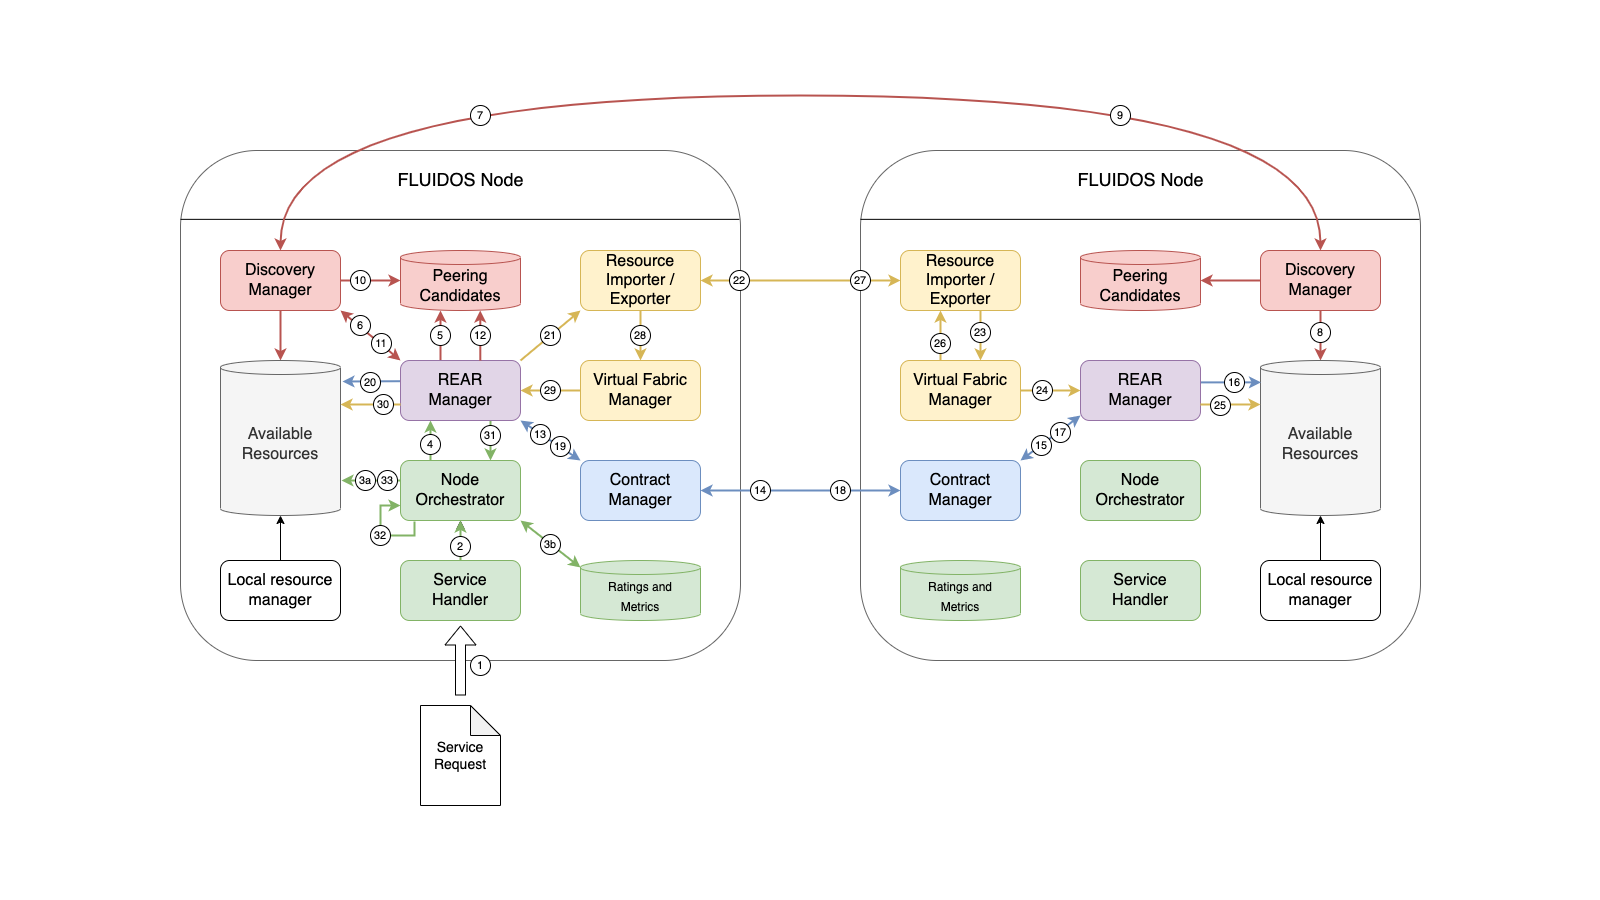
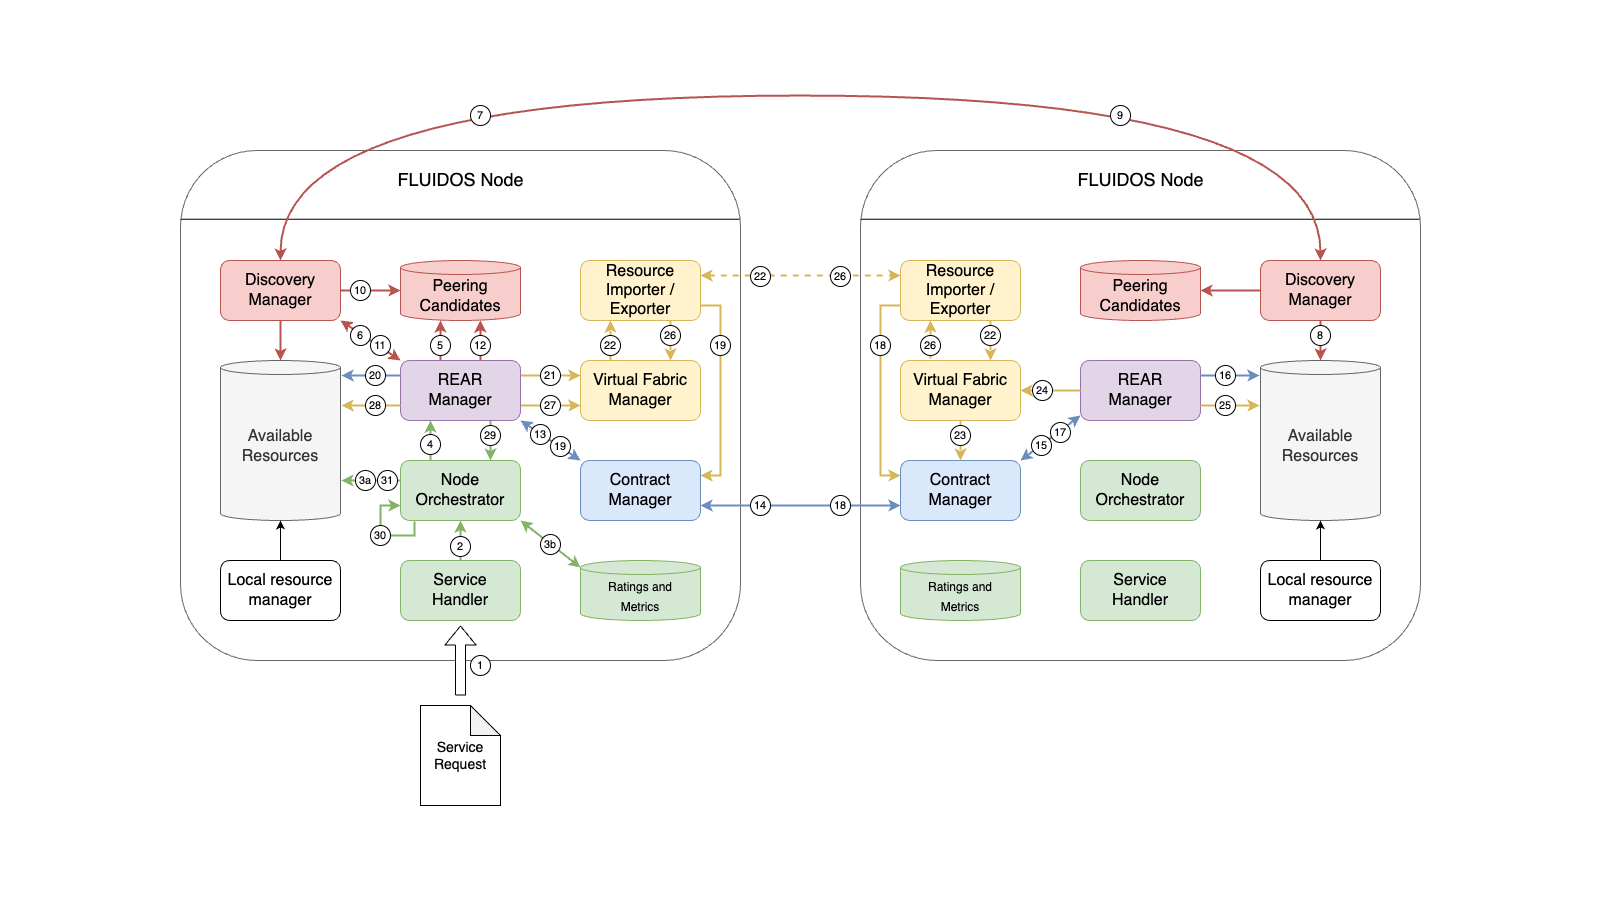
Updated flows

diff --git a/Workflows/README.md b/Workflows/README.md
@@ -18,28 +18,29 @@
 12. See <u>step #5</u>.
 13. Now that a suitable peering candidate is found, the **REAR Manager** asks the **[Contract Manager](../Work%20Packages/WP3/Contract-manager.md)** to start-up the Reservation phase poiting to the Provider Node.
 14. The **Contract Manager** of the Consumer Node sends a _RESERVE_FLAVOUR_ message to the **Contract Manager** of the Provider Node.
-15. The **Contract Manager** of the Provider Node asks its **REAR Manager** to reserve resources for the incoming request.
+15. The **Contract Manager** of the Provider Node creates a new _contract_ and asks its **REAR Manager** to reserve resources for the incoming request.
 16. The **REAR Manager** updates the **Available Resources** table by deleting the old advertised _flavour_ and creating a new reduced _flavour_ (suitable for other future requests) and by creating a new _allocation_ of type "Node" in "inactive" status.
 17. The **REAR Manager** informs the **Contract Manager** that the resources have been reserved.
-18. The **Contract Manager** of the Provider Node creates a new _contract_ and answers back to the **Contract Manager** of the Consumer Node with an _OK_ message.
+18. The **Contract Manager** of the Provider Node answers back to the **Contract Manager** of the Consumer Node with an _OK_ message. At the same time an informer makes the **[Network Manager](../Work%20Packages/WP3/Network-manager.md)** aware, so that it can deploy a virtual router to enable peering reachability.
 
 Following the steps defined into the REAR Protocol, the two **Contract Managers** may exchange a couple of other messages to confirm the reservation on both sides, but may also directly agree following the procedure described from <u>step #14</u> to <u>step #18</u>.
 
-19. The **Contract Manager** of the Consumer Node creates a new _contract_ and informs its REAR Manager that the resources have been reserved.
+19. The **Contract Manager** of the Consumer Node creates a new _contract_ and informs its REAR Manager that the resources have been reserved. At the same time an informer makes the **Network Manager** aware, so that it can deploy a virtual router to enable peering reachability.
 20. The **REAR Manager** updates the **Available Resources** table by creating a new _allocation_ of type "VirtualNode" in "inactive" status.
-21. The **REAR Manager** asks the **[Resource Importer](../Work%20Packages/WP3/Resource-importer.md)** to start-up the Peering phase.
-22. The **Resource Importer** of the Consumer Node sends a ResourceRequest to the **[Resource Exporter](../Work%20Packages/WP3/Resource-exporter.md)** of the Provider Node to trigger a LIQO Peering set-up.
-23. The **Resource Exporter** of the Provider Node solicitates its **[Virtual Fabric Manager](../Work%20Packages/WP3/Virtual-fabric-manager.md)** (LIQO) to set things up.
+
+Now the flow changes a little bit according to the release of Liqo. The current available release provides an "External Resource Monitor" to intercept incoming peering requests so to allocate resources based on the CustomerID available in the request. This mechanism has a clear limitation: only a single peering can be established per each couple of Nodes, since the discriminator is the CustomerID of the cluster. Instead with the next release of Liqo, which will provide a declarative way of defining Virtual Nodes, this limitation will be overcome.
+
+21. The **REAR Manager** solicitates its **[Virtual Fabric Manager](../Work%20Packages/WP3/Virtual-fabric-manager.md)** (LIQO) to set-up the peering.
+22. The **Virtual Fabric Manager** of the Consumer Node generates a ResourceRequest on the **Virtual Fabric Manager** of the Provider Node. Network reachability is provided by the **Network Managers**.
+23. The **Virtual Fabric Manager** of the Provider Node looks up in its **Contract Manager** for an already signed contract embedding a _flavour_ matching the CustomerID of the Consumer Node: once found, it completes the peering.
 24. Once done, an informer makes the **REAR Manager** aware.
 25. The **REAR Manager** updates the **Available Resources** table by putting the previously created _allocation_ to "active" state.
-26. At the same time, an informer makes the **Resource Exporter** aware.
-27. The **Resource Exporter** of the Provider Node answers back the **Resource Importer** of the Consumer Node with a ResourceOffer.
-28. The **Resource Importer** of the Consumer Node solicitates its **Virtual Fabric Manager** (LIQO) to set things up.
-29. See <u>step #24</u>.
-30. See <u>step #25</u>.
-31. The **REAR Manager** finally informs the **Node Orchestrator** that all the Discovery, Reservation and Peering phases are over.
-32. The **Node Orchestrator** is auto-solicitated to continue with the Intent Management phase.
-33. See <u>step #3</u>
+26. The **Virtual Fabric Manager** of the Provider Node sends a ResourceOffer to the **Virtual Fabric Manager** of the Consumer Node.
+27. See <u>step #24</u>.
+28. See <u>step #25</u>.
+29. The **REAR Manager** finally informs the **Node Orchestrator** that all the Discovery, Reservation and Peering phases are over.
+30. The **Node Orchestrator** is auto-solicitated to continue with the Intent Management phase.
+31. See <u>step #3</u>
 
 Now that there are available resources that fulfill the request, the **Node Orchestrator** can finally deploy the workload described in the _intent_ exploiting standard Kubernetes primitives and pointing to the VirtualNode retreived in the **Available Resources** table.
 
@@ -50,6 +51,54 @@ Lorem ipsum dolor sit amet
 ## 3. Two nodes in different domains (w/o Catalog)
 
 ![Workflow 2](./workflow_3.png)
+
+1. A new _service request_ is sent to the **[Service Handler](../Work%20Packages/WP4/Service-handler.md)** in the form of an _intent_.
+2. The _intent_ is passed to the **[Node Orchestrator](../Work%20Packages/WP4/Node-orchestrator.md)**, which translates and decomposes it to simple _resources or services requests_.
+3. The **Node Orchestrator** looks up for _flavours_ matching the _request_ in the **[Available Resources](../Work%20Packages/WP3/Available-resources.md)** and the **[Ratings and Metrics](../Work%20Packages/WP3/Ratings-and-metrics.md)** tables.
+4. In case there are no suitable available resources, the _request_ is passed to the **[REAR Manager](../Work%20Packages/WP3/REAR-manager.md)** to start-up the Discovery, Reservation and Peering phases.
+5. The **REAR Manager** looks up in the **[Peering Candidates](../Work%20Packages/WP3/Peering-candidates.md)** table for potential peering candidates (suitable _flavours_) matching the _request_.
+6. In case there are no suitable peering candidates, the the **REAR Manager** builds a _flavour selector_ and passes it to the **[Discovery Manager](../Work%20Packages/WP3/Discovery-manager.md)** asking for a suitable peering candidate.
+7. The **Discovery Manager** of the Node sends a _LIST_FLAVOURS_ message to its Supernode, already known and directly reachable.
+8. The **Discovery Manager** of the Supernode looks-up for suitable local _flavours_ matching the received _flavour selector_ in its **Available Resources** table.
+9. In case no suitable _flavours_ are found, the **Discovery Manager** looks up in the **Peering Candidates** table for potential peering candidates (suitable _flavours_) matching the _request_.
+10. 
+11. 
+12. 
+13. In case one or more suitable _flavours_ are found, the **Discovery Manger** of the Provider Supernode sends back an OK message to the **Discovery Manager** of the Consumer Supernode attaching the _flavours_ list.
+14. The **Discovery Manager** of the Consumer Supernode populates the **Peering Candidates** table with the newly discovered _flavours_.
+15. The **Discovery Manager** of the Consumer Supernode sends back an OK message to the **Discovery Manager** of the Consumer Node attaching the _flavours_ list.
+16. The **Discovery Manager** of the Consumer Node populates the **Peering Candidates** table with the newly discovered _flavours_.
+17. It then informs the **REAR Manager** that the Discovery phase has completed successfully.
+18. See <u>step #5</u>.
+19. Now that a suitable peering candidate is found, the **REAR Manager** asks the **[Contract Manager](../Work%20Packages/WP3/Contract-manager.md)** to start-up the Reservation phase poiting to the Provider Node.
+20. The **Contract Manager** of the Consumer Node sends a _RESERVE_FLAVOUR_ message to the **Contract Manager** of the Consumer Supernode.
+21. The **Contract Manager** of the Consumer Supernode sends a _RESERVE_FLAVOUR_ message to the **Contract Manager** of the Provider Supernode.
+22. The **Contract Manager** of the Provider Supernode sends a _RESERVE_FLAVOUR_ message to the **Contract Manager** of the Provider Node.
+23. The **Contract Manager** of the Provider Node creates a new _contract_ and asks its **REAR Manager** to reserve resources for the incoming request.
+24. The **REAR Manager** updates the **Available Resources** table by deleting the old advertised _flavour_ and creating a new reduced _flavour_ (suitable for other future requests) and by creating a new _allocation_ of type "Node" in "inactive" status.
+25. The **REAR Manager** informs the **Contract Manager** that the resources have been reserved.
+26. The **Contract Manager** of the Provider Node answers back to the **Contract Manager** of the Provider Supernode with an _OK_ message. At the same time an informer makes the **[Network Manager](../Work%20Packages/WP3/Network-manager.md)** aware, so that it can deploy a virtual router to enable peering reachability.
+
+Following the steps defined into the REAR Protocol, the couples of **Contract Managers** may exchange a couple of other messages to confirm the reservation on both sides, but may also directly agree following the procedure described from <u>step X</u> to <u>step Y</u>.
+
+27. The **Contract Manager** of the Provider Supernode creates a new _contract_ and answers back to the **Contract Manager** of the Consumer Supernode with an _OK_ message. At the same time an informer makes the **[Network Manager](../Work%20Packages/WP3/Network-manager.md)** aware, so that it can deploy a virtual router to enable peering reachability.
+28. The **Contract Manager** of the Consumer Supernode creates a new _contract_ and answers back to the **Contract Manager** of the Consumer Node with an _OK_ message. At the same time an informer makes the **[Network Manager](../Work%20Packages/WP3/Network-manager.md)** aware, so that it can deploy a virtual router to enable peering reachability.
+29. The **Contract Manager** of the Consumer Node creates a new _contract_ and informs its REAR Manager that the resources have been reserved. At the same time an informer makes the **[Network Manager](../Work%20Packages/WP3/Network-manager.md)** aware, so that it can deploy a virtual router to enable peering reachability.
+30. The **REAR Manager** updates the **Available Resources** table by creating a new _allocation_ of type "VirtualNode" in "inactive" status.
+31. The **REAR Manager** solicitates its **[Virtual Fabric Manager](../Work%20Packages/WP3/Virtual-fabric-manager.md)** (LIQO) to set-up the peering.
+32. The **Virtual Fabric Manager** of the Consumer Node generates a ResourceRequest on the **Virtual Fabric Manager** of the Provider Node. Network reachability is provided by the **Network Managers**.
+33. The **Virtual Fabric Manager** of the Provider Node looks up in its **Contract Manager** for an already signed contract embedding a _flavour_ matching the CustomerID of the Consumer Node: once found, it completes the peering.
+34. Once done, an informer makes the **REAR Manager** aware.
+35. The **REAR Manager** updates the **Available Resources** table by putting the previously created _allocation_ to "active" state.
+36. The **Virtual Fabric Manager** of the Provider Node sends a ResourceOffer to the **Virtual Fabric Manager** of the Consumer Node.
+37. See <u>step #34</u>.
+38. See <u>step #35</u>.
+39. The **REAR Manager** finally informs the **Node Orchestrator** that all the Discovery, Reservation and Peering phases are over.
+40. The **Node Orchestrator** is auto-solicitated to continue with the Intent Management phase.
+41. See <u>step #3</u>
+
+Now that there are available resources that fulfill the request, the **Node Orchestrator** can finally deploy the workload described in the _intent_ exploiting standard Kubernetes primitives and pointing to the VirtualNode retreived in the **Available Resources** table.
+
 
 ## 4. Two nodes in different domains (w/ Catalog)
 
